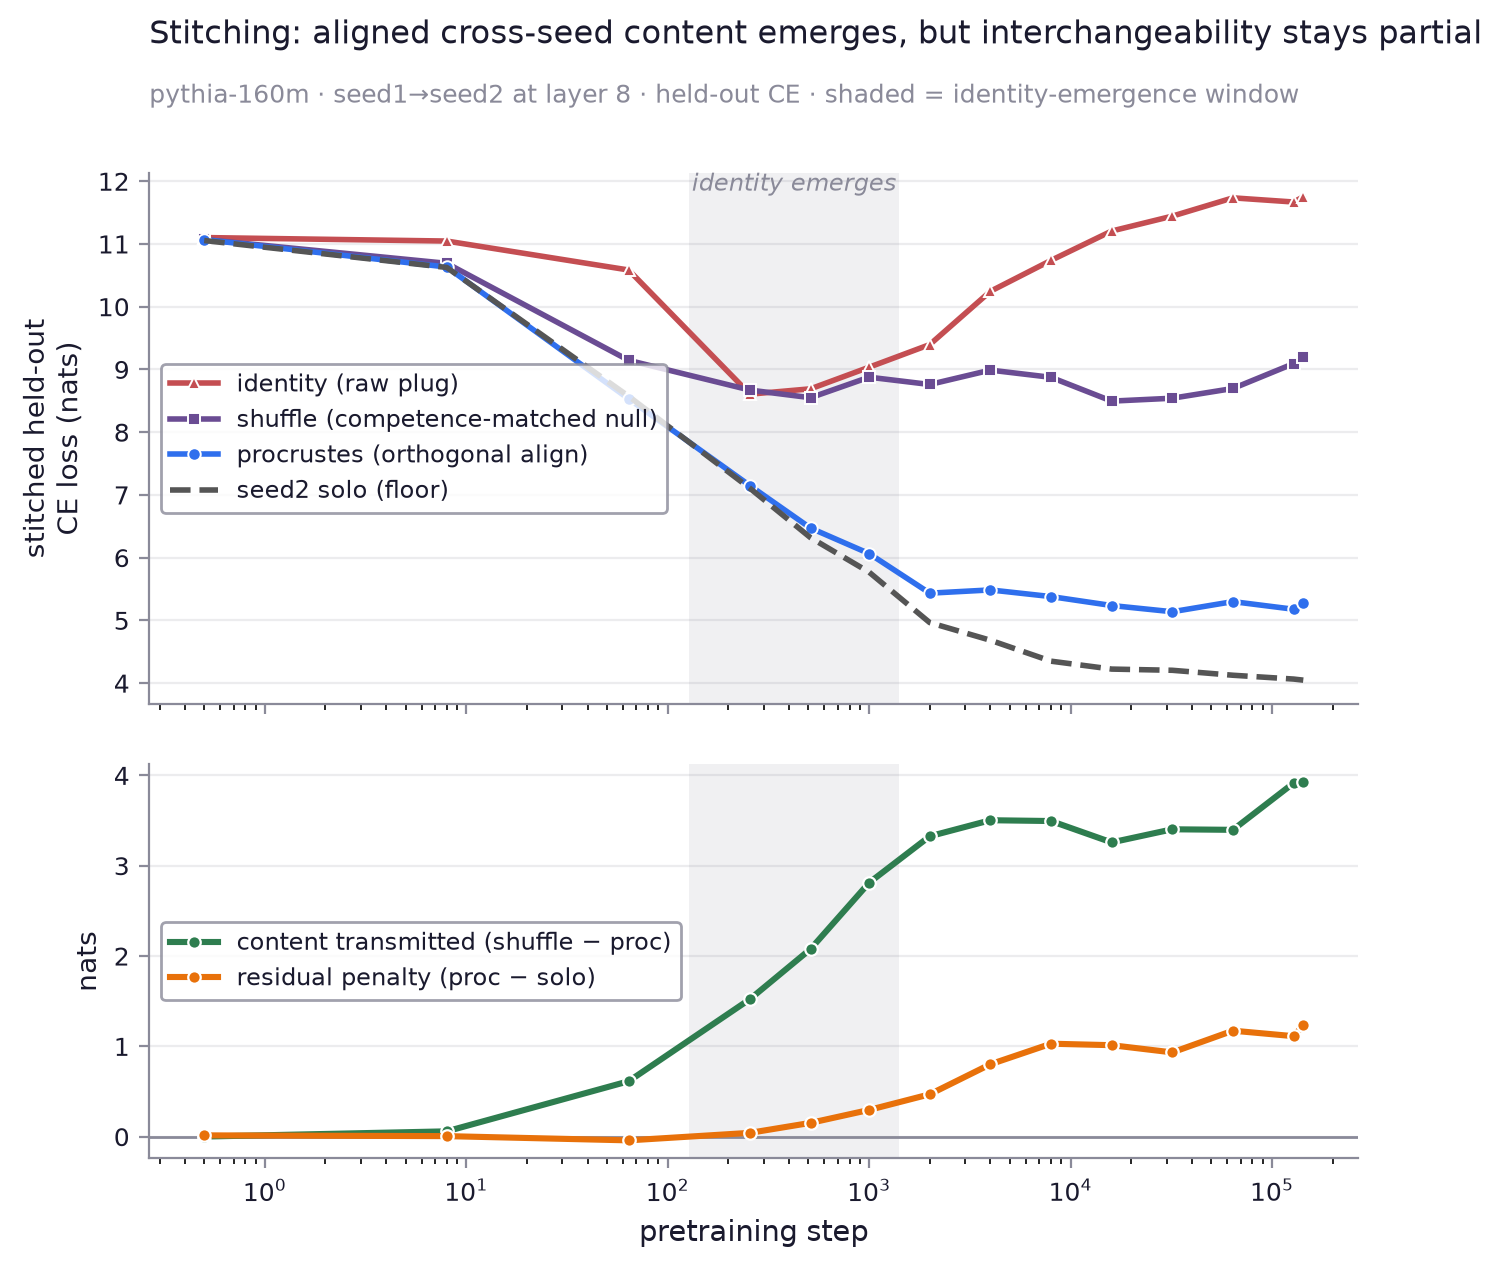
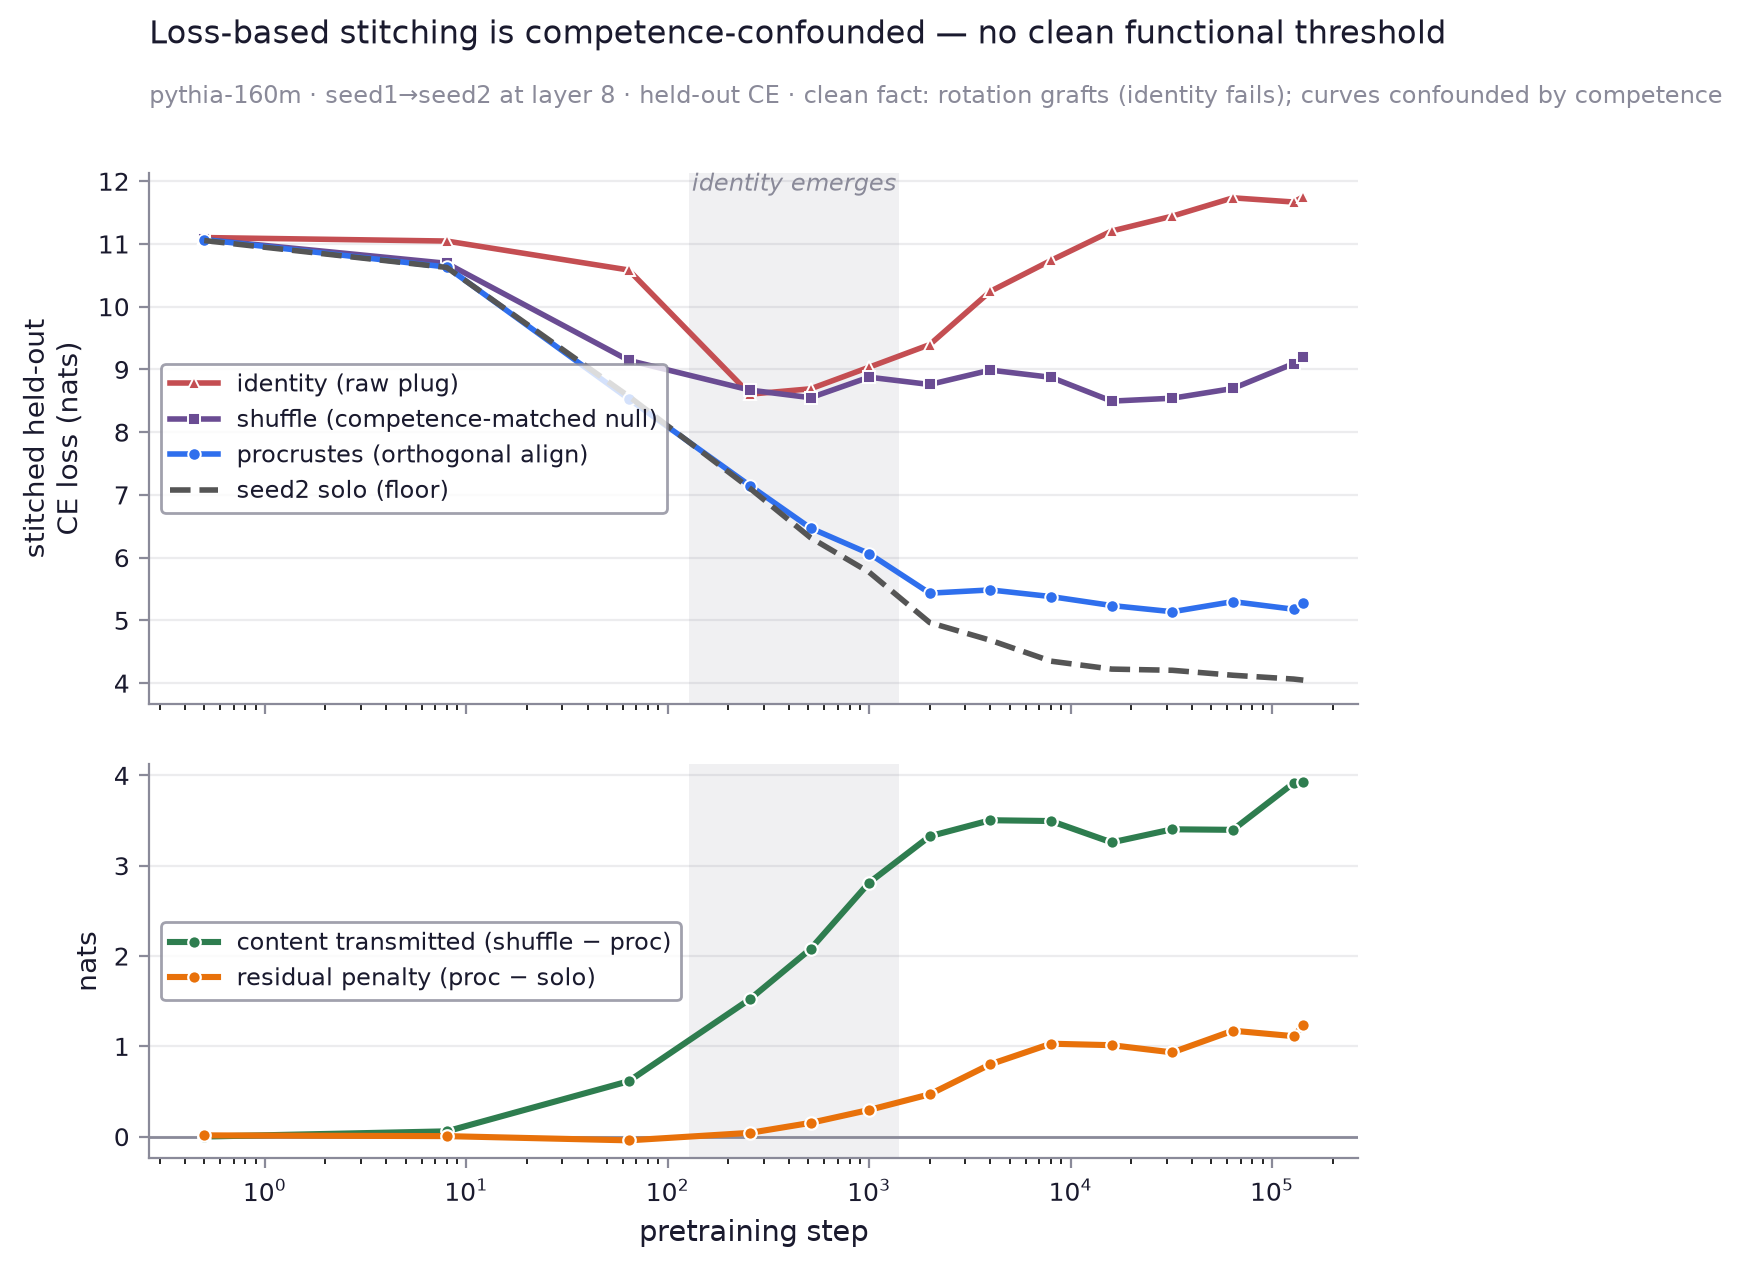
emergence: walk back stitching overclaim — mark it an honest negative
The loss-based stitch is competence-confounded: procrustes reaches the (garbage)
floor before identity emerges, the penalty growth tracks the floor getting
demanding, and shuffle-procrustes tracks content-amount not graft fidelity. So it
does NOT establish a functional emergence threshold. Retitled figure and rewrote
the README section: the one clean fact is that an orthogonal rotation suffices to
graft (rotation-equivalence, static); the threshold's functional importance stays
unproven. Clean results remain the geometric (chance-anchored) ones.

diff --git a/emergence/plot_stitch.py b/emergence/plot_stitch.py
@@ -1,18 +1,23 @@
-"""Model-stitching across checkpoints, with a competence-matched control.
+"""Model-stitching across checkpoints — an INCONCLUSIVE functional probe.
 
 Top: held-out CE of the stitched seed1->seed2 network at layer L, for three maps
 (identity, orthogonal Procrustes, learned linear) plus seed2's solo floor. The
-orthogonal alignment nearly reaches the floor; raw identity and the shuffle
-control fail.
+one clean, competence-free fact: an orthogonal rotation suffices to graft one
+seed into another (procrustes works; raw identity fails and worsens with
+training) — a rotation-equivalence result, but static, with no bearing on the
+emergence threshold.
 
-Bottom: the two confound-free quantities.
-  - content transmitted = shuffle - procrustes: how much the *correct*
-    correspondence helps over a competence-matched scramble. Rises through the
-    identity-emergence window (shaded), then plateaus -> genuine interchangeable
-    content emerges with training, not just "both models got better".
-  - residual penalty = procrustes - solo: the stitch never fully reaches the
-    floor, and the gap *grows* as seeds specialize -> full interchangeability
-    never arrives; seed geometry stays idiosyncratic.
+Bottom: two derived curves that we initially read as "interchangeable content
+emerges" — but every loss-based readout here is confounded by model competence,
+which changes fastest exactly in the emergence window:
+  - procrustes reaches the solo floor *before* identity emerges (penalty ~0 at
+    step 64-256) -> vacuous, the floor is garbage there (ppl ~5000).
+  - penalty (procrustes - solo) grows later -> confounded: the floor becomes
+    demanding as the model improves, not necessarily "seeds diverge".
+  - content (shuffle - procrustes) grows -> confounded by content-*amount*, not
+    graft fidelity.
+So this does NOT establish that the threshold marks a functional change. Kept as
+an honest negative; the clean results are the geometric ones.
 
     python -m emergence.plot_stitch
 """
@@ -100,10 +105,11 @@ def main():
     ax1.text(np.sqrt(w0 * w1), ax1.get_ylim()[1], "identity emerges", ha="center",
              va="top", fontsize=8.5, color=MUTED, style="italic")
 
-    fig.text(0.125, 0.975, "Stitching: aligned cross-seed content emerges, but interchangeability stays partial",
+    fig.text(0.125, 0.975, "Loss-based stitching is competence-confounded — no clean functional threshold",
              fontsize=11.5, color=INK, ha="left", va="bottom")
     fig.text(0.125, 0.93, f"{meta['model']} · seed1→seed2 at layer {meta['layer']} · "
-             "held-out CE · shaded = identity-emergence window", fontsize=9, color=MUTED, ha="left", va="bottom")
+             "held-out CE · clean fact: rotation grafts (identity fails); curves confounded by competence",
+             fontsize=8.5, color=MUTED, ha="left", va="bottom")
 
     out = os.path.join(OUT_DIR, "stitch.png")
     fig.savefig(out, facecolor="white", bbox_inches="tight")

diff --git a/emergence/README.md b/emergence/README.md
@@ -97,31 +97,34 @@ later CE 7 → 6 portion. This is a correlation, not yet a functional link — t
 needs the stitching test (does identifiability onset predict when a layer can be
 transplanted across seeds?).
 
-### Functional test: does it predict interchangeability? (stitching)
+### Functional test: stitching — INCONCLUSIVE (kept as an honest negative)
 
 ![stitching](outputs/stitch.png)
 
-We splice seed1 into seed2 at layer 8 (`stitch_sweep.py`): run seed1 up to the
-layer, map its residual stream into seed2's space, let seed2 finish, and measure
-held-out CE. The map that matters is the **orthogonal Procrustes** rotation — the
-alignment our rotation-invariant metric implies. Confound control (your models
-also just get better around emergence): a **shuffle** null uses the same map on
-position-shuffled activations — identical competence, correspondence destroyed.
+We tried to give the threshold a functional meaning by splicing seed1 into seed2
+at layer 8 (`stitch_sweep.py`): run seed1 up to the layer, map its residual
+stream into seed2's space, let seed2 finish, measure held-out CE. It does **not**
+work as a test of "the threshold marks a functional change" — every loss-based
+readout is confounded by model competence, which changes fastest exactly in the
+emergence window.
 
-- **Genuine, confound-free interchangeable content emerges with training.**
-  content transmitted = shuffle − procrustes rises from 0 to ~3.9 nats through
-  the emergence window and plateaus. Because shuffle is competence-matched, this
-  is not "both models got better" — it is real cross-seed correspondence.
-- **But interchangeability stays partial.** Procrustes never reaches seed2's solo
-  floor, and the penalty (procrustes − solo) *grows* to ~1.2 nats as seeds
-  specialize — full swapability never arrives, echoing the seed idiosyncrasy in
-  the late divergence. Raw identity (no map) fails entirely.
+- The one **clean, competence-free** fact: an **orthogonal rotation suffices** to
+  graft one seed into another (procrustes tracks seed2's floor; raw identity
+  fails and *worsens* with training). That is a rotation-equivalence result — but
+  static, with no bearing on the emergence threshold.
+- The curves that looked like a functional onset are all confounded:
+  procrustes reaches the solo floor *before* identity emerges (penalty ≈ 0 at
+  step 64–256) — vacuous, since the floor there is garbage (ppl ~5000); the
+  penalty's later growth is confounded by the floor becoming demanding; the
+  `shuffle − procrustes` "content" is confounded by content-*amount*, not graft
+  fidelity. All move because the model is learning.
 
-So the emergence threshold marks when cross-seed geometry becomes functionally
-*alignable*, not perfectly *swappable*. Caveats: one pair, one layer; the
-supervised Procrustes fit is a different (easier) probe than the label-free Gram
-metric and is somewhat underdetermined (d=768 vs a modest fit corpus), so the
-co-emergence is qualitative.
+Verdict: the functional importance of the emergence threshold is **not
+established** — loss-based stitching is the wrong instrument (too
+competence-confounded), and what signal exists points to "the graft was fine all
+along," not "compatibility emerges." The clean, competence-free results in this
+repo are the geometric ones (label-free identifiability is chance-anchored and
+not competence-confounded).
 
 Caveats: one architecture (160m); 6 seed pairs (all combinations of 4 seeds, so
 the pairs share seeds and the spread is a robustness range, not a formal CI). The
